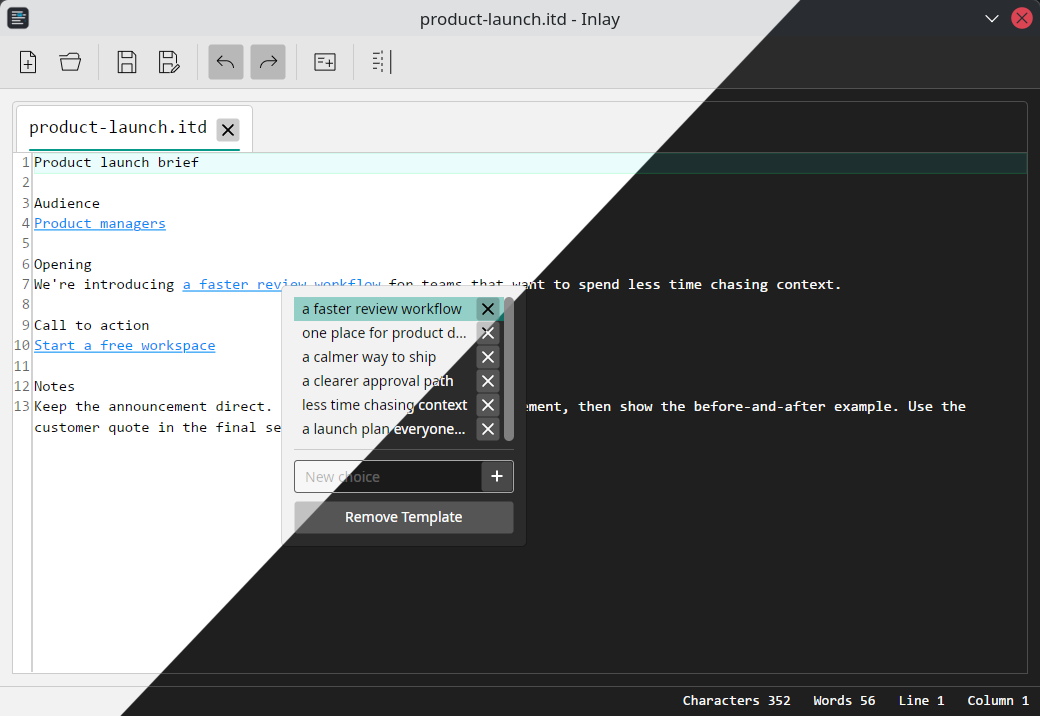
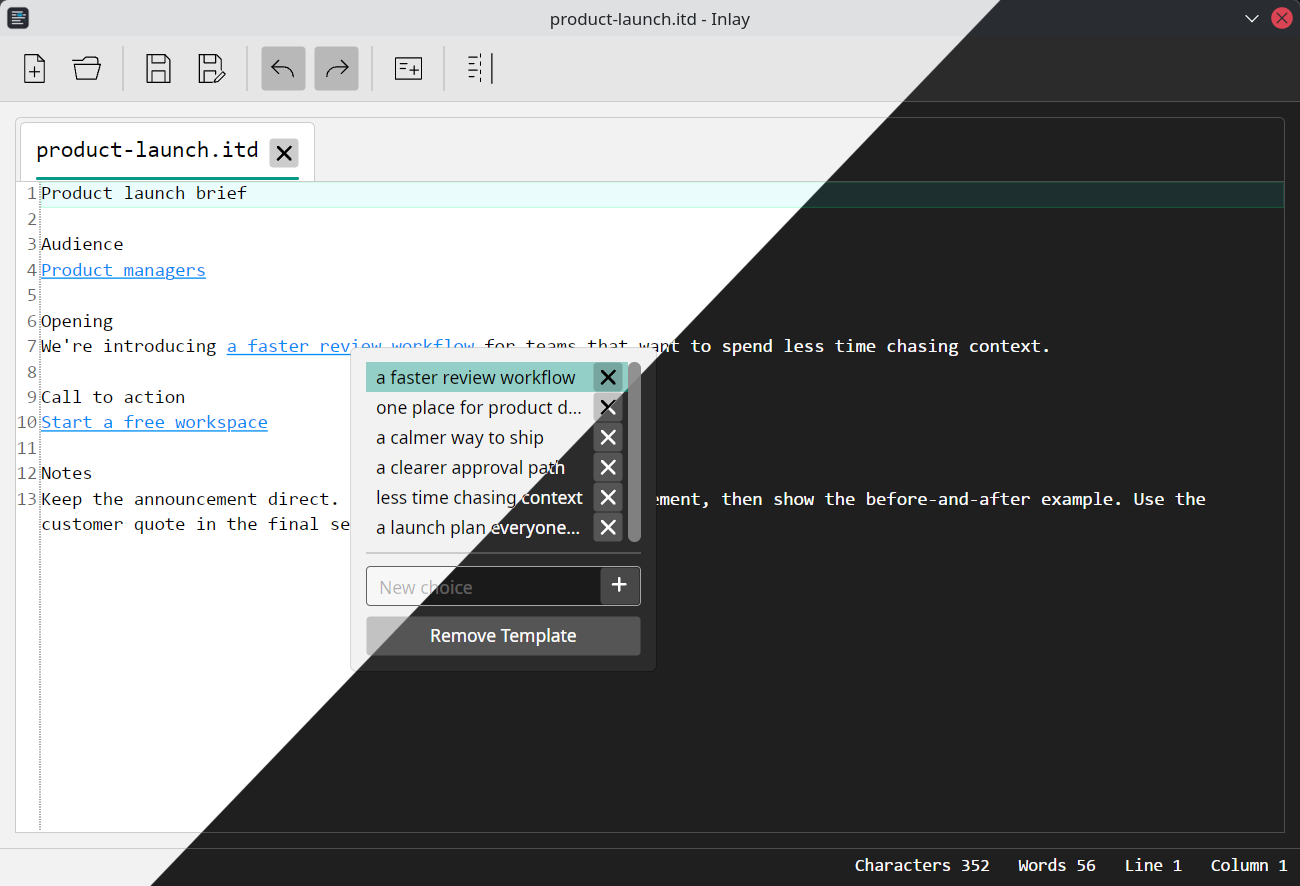
fixed test race, cleaned pragma use, improved button styling (#14)

diff --git a/Tests/Infrastructure/TestCommand.cs b/Tests/Infrastructure/TestCommand.cs
@@ -2,44 +2,47 @@ namespace Inlay.Tests;
 
 internal static class TestCommand
 {
-    public static void Execute<T>(IObservable<T> command) =>
-        command.Subscribe(new ImmediateObserver<T>());
+    /// <summary>
+    /// Runs a command that finishes without yielding. Commands that resume on the
+    /// thread pool are not finished when this returns, so those are rejected here
+    /// rather than left for the test to race.
+    /// </summary>
+    public static void Execute<T>(IObservable<T> command)
+    {
+        var observer = new ImmediateObserver<T>();
+        using var subscription = command.Subscribe(observer);
+        if (!observer.IsCompleted)
+        {
+            throw new InvalidOperationException(
+                "The command did not complete synchronously. Await ExecuteAsync instead.");
+        }
+    }
 
-    public static Task ExecuteAsync<T>(
+    public static async Task ExecuteAsync<T>(
         IObservable<T> command,
         CancellationToken cancellationToken)
     {
         var completion = new TaskCompletionSource(
             TaskCreationOptions.RunContinuationsAsynchronously);
-        var registration = cancellationToken.Register(
+        using var registration = cancellationToken.Register(
             () => completion.TrySetCanceled(cancellationToken));
-        command.Subscribe(new CompletionObserver<T>(completion, registration));
-        return completion.Task;
+        using var subscription = command.Subscribe(new CompletionObserver<T>(completion));
+        await completion.Task;
     }
 
     private sealed class ImmediateObserver<T> : IObserver<T>
     {
-        public void OnCompleted() { }
+        public bool IsCompleted { get; private set; }
+
+        public void OnCompleted() => IsCompleted = true;
         public void OnError(Exception error) => throw error;
         public void OnNext(T value) { }
     }
 
-    private sealed class CompletionObserver<T>(
-        TaskCompletionSource completion,
-        CancellationTokenRegistration registration) : IObserver<T>
+    private sealed class CompletionObserver<T>(TaskCompletionSource completion) : IObserver<T>
     {
-        public void OnCompleted()
-        {
-            registration.Dispose();
-            completion.TrySetResult();
-        }
-
-        public void OnError(Exception error)
-        {
-            registration.Dispose();
-            completion.TrySetException(error);
-        }
-
+        public void OnCompleted() => completion.TrySetResult();
+        public void OnError(Exception error) => completion.TrySetException(error);
         public void OnNext(T value) { }
     }
 }

diff --git a/tools/HeroCapture/Program.cs b/tools/HeroCapture/Program.cs
@@ -1,4 +1,5 @@
 using System.Diagnostics;
+using System.Diagnostics.CodeAnalysis;
 using Avalonia;
 using Avalonia.Controls;
 using Avalonia.Controls.ApplicationLifetimes;
@@ -13,33 +14,26 @@ using AvaloniaEdit.Rendering;
 using Inlay;
 using Inlay.Models;
 using Inlay.ViewModels;
+using ReactiveUI.Avalonia;
 
 var theme = args.FirstOrDefault()?.Equals("dark", StringComparison.OrdinalIgnoreCase) == true
     ? ThemeVariant.Dark
     : ThemeVariant.Light;
 var examplePath = Path.Combine(AppContext.BaseDirectory, "product-launch.itd");
-var exampleDocument = LoadExampleDocument(examplePath);
+var exampleDocument = await LoadExampleDocumentAsync(examplePath).ConfigureAwait(false);
 
 Build().StartWithClassicDesktopLifetime(args);
 
 AppBuilder Build() => AppBuilder
     .Configure(() => new CaptureApp(theme, examplePath, exampleDocument))
-    .UsePlatformDetect();
+    .UsePlatformDetect()
+    .UseReactiveUI(_ => { });
 
-#pragma warning disable CA2025 // GetResult completes the read before the stream is disposed.
-static TemplateDocument LoadExampleDocument(string path)
+static async Task<TemplateDocument> LoadExampleDocumentAsync(string path)
 {
-    var stream = File.OpenRead(path);
-    try
-    {
-        return new JsonTemplateDocumentService().LoadAsync(stream).GetAwaiter().GetResult();
-    }
-    finally
-    {
-        stream.Dispose();
-    }
+    using var stream = File.OpenRead(path);
+    return await new JsonTemplateDocumentService().LoadAsync(stream).ConfigureAwait(false);
 }
-#pragma warning restore CA2025
 
 internal sealed class CaptureApp(
     ThemeVariant theme,
@@ -64,6 +58,8 @@ internal sealed class CaptureApp(
         });
     }
 
+    [SuppressMessage("Reliability", "CA2000",
+        Justification = "The window owns the view model and disposes it when it closes.")]
     public override void OnFrameworkInitializationCompleted()
     {
         if (ApplicationLifetime is not IClassicDesktopStyleApplicationLifetime desktop)
@@ -71,12 +67,9 @@ internal sealed class CaptureApp(
             return;
         }
 
-        // The window owns the view model and disposes it when it closes.
-#pragma warning disable CA2000
         var viewModel = new MainWindowViewModel(
             new NullDocumentService(), new NullStorageService(), new NullInteractionService(),
             new NullApplicationService());
-#pragma warning restore CA2000
         var exampleFile = new ExampleFile(examplePath);
         viewModel.SelectedDocument!.Editor.LoadDocument(exampleDocument);
         viewModel.SelectedDocument!.MarkSaved(exampleFile);

diff --git a/Tests/Unit/ViewModels/MainWindow/TabMoveAndCopyTests.cs b/Tests/Unit/ViewModels/MainWindow/TabMoveAndCopyTests.cs
@@ -241,4 +241,36 @@ public sealed class TabMoveAndCopyTests
         Assert.False(copiedTab.ChangedInAnotherWindow);
         Assert.False(copiedTab.CanEdit);
     }
+
+    [Fact]
+    public async Task EveryWayOfLosingATabUnregistersItFromTheLiveTabList()
+    {
+        // The "changed in another window" warning scans live tabs. A tab dropped
+        // without being disposed would be pinned for the life of the process and
+        // keep answering that question with stale state.
+        using var replacing = MainWindowViewModelTestContext.Create();
+        var pristine = replacing.ViewModel.Documents[0];
+        Assert.True(DocumentTabViewModel.IsTracked(pristine));
+
+        // Copying over the lone pristine untitled tab drops it.
+        replacing.ViewModel.CopyDocument(
+            new TemplateDocument { Content = [DocumentPart.PlainText("Copy")] },
+            null,
+            isDirty: false);
+        Assert.False(DocumentTabViewModel.IsTracked(pristine));
+
+        using var closing = MainWindowViewModelTestContext.Create();
+        closing.ViewModel.AddNewDocument();
+        var closed = closing.ViewModel.Documents[0];
+        Assert.True(DocumentTabViewModel.IsTracked(closed));
+
+        await closing.ViewModel.CloseDocumentAsync(closed);
+        Assert.False(DocumentTabViewModel.IsTracked(closed));
+
+        // Closing the window disposes the view model and with it every open tab.
+        var surviving = closing.ViewModel.Documents[0];
+        Assert.True(DocumentTabViewModel.IsTracked(surviving));
+        closing.Dispose();
+        Assert.False(DocumentTabViewModel.IsTracked(surviving));
+    }
 }

diff --git a/Tests/Infrastructure/MainWindowViewModelTestContext.cs b/Tests/Infrastructure/MainWindowViewModelTestContext.cs
@@ -1,3 +1,4 @@
+using System.Diagnostics.CodeAnalysis;
 using Inlay.Models;
 using Inlay.ViewModels;
 using System.Text;
@@ -14,18 +15,17 @@ internal sealed record MainWindowViewModelTestContext(
 {
     public void Dispose() => ViewModel.Dispose();
 
+    [SuppressMessage("Reliability", "CA2000", Justification = "The caller owns the returned object and disposes it.")]
     public static MainWindowViewModelTestContext Create()
     {
         var storage = new FakeStorageService();
         var interaction = new FakeInteractionService();
         var application = new FakeApplicationService();
-#pragma warning disable CA2000 // Ownership passes to the caller.
         var viewModel = new MainWindowViewModel(
             new JsonTemplateDocumentService(),
             storage,
             interaction,
             application);
-#pragma warning restore CA2000
         var editor = new FakeEditorAdapter();
         viewModel.Editor!.Attach(editor);
         return new MainWindowViewModelTestContext(

diff --git a/Tests/Unit/ViewModels/MainWindow/ExternalChangeTests.cs b/Tests/Unit/ViewModels/MainWindow/ExternalChangeTests.cs
@@ -1,3 +1,4 @@
+using System.Diagnostics.CodeAnalysis;
 using System.Windows.Input;
 using Inlay.Models;
 using Xunit;
@@ -176,11 +177,10 @@ public sealed class ExternalChangeTests
         Assert.Equal("opened.itd changed outside Inlay. Reload it or ignore the changes?", context.Test.ViewModel.SelectedDocument.ExternalChangesMessage);
     }
 
+    [SuppressMessage("Reliability", "CA2000", Justification = "The caller owns the returned object and disposes it.")]
     private static async Task<OpenedDocumentContext> OpenDocument()
     {
-#pragma warning disable CA2000 // Ownership passes to the caller.
         var test = MainWindowViewModelTestContext.Create();
-#pragma warning restore CA2000
         var file = new MemoryDocumentFile("opened.itd");
         file.SetDocumentText("Original");
         test.Storage.OpenFile = file;

diff --git a/ViewModels/DocumentTabViewModel.cs b/ViewModels/DocumentTabViewModel.cs
@@ -51,6 +51,9 @@ internal sealed partial class DocumentTabViewModel : ReactiveObject, IDisposable
             MarkDirty();
         }
 
+        // Registering publishes this tab to other threads, so it stays last: every
+        // field another tab could read must already be written. Dispose unregisters,
+        // and a tab that is never disposed stays here for the life of the process.
         lock (LiveTabsLock)
         {
             LiveTabs.Add(this);
@@ -170,6 +173,14 @@ internal sealed partial class DocumentTabViewModel : ReactiveObject, IDisposable
         lock (LiveTabsLock)
         {
             LiveTabs.Remove(this);
+        }
+    }
+
+    internal static bool IsTracked(DocumentTabViewModel tab)
+    {
+        lock (LiveTabsLock)
+        {
+            return LiveTabs.Contains(tab);
         }
     }
 

diff --git a/Tests/Behavior/MainWindow/MainWindowCommandTests.cs b/Tests/Behavior/MainWindow/MainWindowCommandTests.cs
@@ -268,7 +268,7 @@ public sealed class MainWindowCommandTests
     }
 
     [AvaloniaFact]
-    public void ExternalChangesDisableTheEditingFunctionality()
+    public async Task ExternalChangesDisableTheEditingFunctionality()
     {
         var file = new MemoryDocumentFile("opened.itd");
         file.SetDocumentText("Original");
@@ -276,7 +276,9 @@ public sealed class MainWindowCommandTests
         var (window, viewModel) = MainWindowTestHost.CreateWindow(storage);
         try
         {
-            TestCommand.Execute(viewModel.OpenCommand.Execute());
+            await TestCommand.ExecuteAsync(
+                viewModel.OpenCommand.Execute(),
+                TestContext.Current.CancellationToken);
             Dispatcher.UIThread.RunJobs();
             window.UpdateLayout();
 

diff --git a/Tests/Behavior/Application/ApplicationBehaviorTests.cs b/Tests/Behavior/Application/ApplicationBehaviorTests.cs
@@ -1,3 +1,4 @@
+using System.Diagnostics.CodeAnalysis;
 using Avalonia.Controls;
 using Avalonia.Headless.XUnit;
 using Inlay.ViewModels;
@@ -138,12 +139,11 @@ public sealed class ApplicationBehaviorTests
         Assert.False(tab.IsDirty);
     }
 
+    [SuppressMessage("Reliability", "CA2000", Justification = "The caller owns the returned object and disposes it.")]
     private static MainWindow CreateWindow(FakeInteractionService interaction) =>
-#pragma warning disable CA2000 // Ownership passes to the caller.
         new(new MainWindowViewModel(
             new JsonTemplateDocumentService(),
             new FakeStorageService(),
             interaction,
             new FakeApplicationService()));
-#pragma warning restore CA2000
 }
